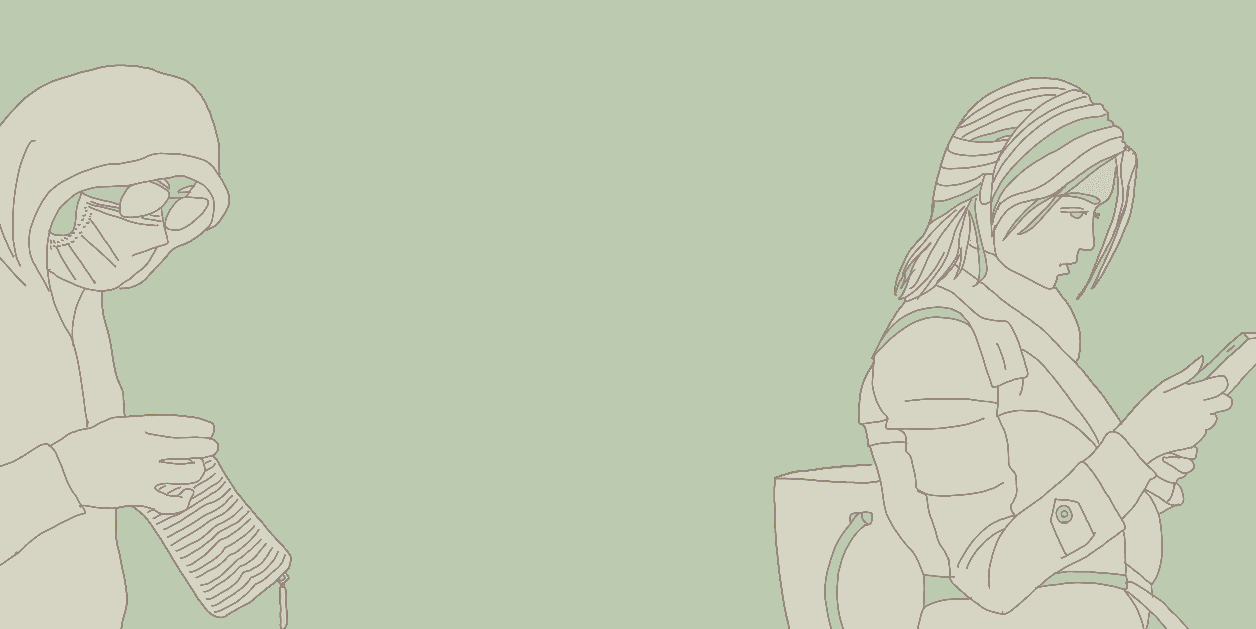
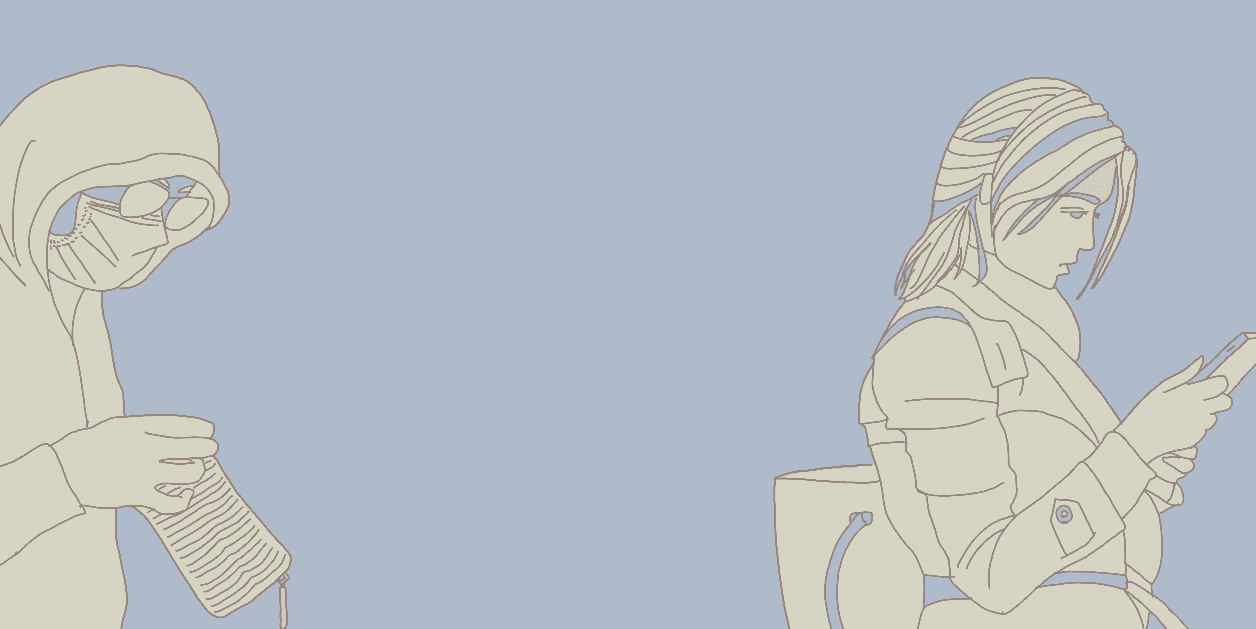
commit

diff --git a/src/pages/{mdx.slug}.js b/src/pages/{mdx.slug}.js
@@ -1,6 +1,7 @@
 import * as React from "react"
 import { graphql, Link } from "gatsby"
 import { MDXRenderer } from "gatsby-plugin-mdx"
+import { getImage } from "gatsby-plugin-image"
 import { ChakraProvider, Heading, Text, HStack, Box } from "@chakra-ui/react"
 import kebabCase from "lodash/kebabCase"
 
@@ -11,12 +12,15 @@ import articleTheme from "../theme/articleTheme"
 
 const articleTemplate = ({ data }) => {
   const pageTitle = data.mdx.frontmatter.title
+  const description = data.mdx.excerpt
+  const image = getImage(data.mdx.frontmatter.hero_image)
   const date = data.mdx.frontmatter.date
   const tags = data.mdx.frontmatter.tags
+  const localImages = data.mdx.frontmatter.embeddedImagesLocal
   return (
     <ChakraProvider theme={articleTheme}>
       <Layout>
-        <Seo title={pageTitle} />
+        <Seo title={pageTitle} description={description} image={image} />
         <Text
           align="right"
           fontSize={{ base: "xs", sm: "sm" }}
@@ -37,7 +41,7 @@ const articleTemplate = ({ data }) => {
             </HStack>
           ))}
         </Box>
-        <MDXRenderer>{data.mdx.body}</MDXRenderer>
+        <MDXRenderer localImages={localImages}>{data.mdx.body}</MDXRenderer>
       </Layout>
     </ChakraProvider>
   )
@@ -51,7 +55,18 @@ export const query = graphql`
         title
         date(formatString: "YYYY - MM - DD")
         tags
+        hero_image {
+          childImageSharp {
+            gatsbyImageData
+          }
+        }
+        embeddedImagesLocal {
+          childImageSharp {
+            gatsbyImageData
+          }
+        }
       }
+      excerpt
     }
     site {
       siteMetadata {

diff --git a/src/components/articleItems.js b/src/components/articleItems.js
@@ -1,23 +1,34 @@
 import * as React from "react"
 import { Link } from "gatsby"
 import { Box, Heading, Flex, GridItem } from "@chakra-ui/react"
-import { GatsbyImage, getImage } from "gatsby-plugin-image"
+import { GatsbyImage, getImage, StaticImage } from "gatsby-plugin-image"
 
 const ArticleItems = ({ node }) => {
+  const title = node.frontmatter.title
+  const image = node.frontmatter.hero_image
+  const alt = node.frontmatter.hero_image_alt
   return (
     <GridItem colSpan={{ base: 6, sm: 3, lg: 2 }} mb="6">
       <Link to={`/${node.slug}`}>
         <Flex>
           <Box>
             <Box>
-              <GatsbyImage
-                image={getImage(node.frontmatter.hero_image)}
-                alt={node.frontmatter.hero_image_alt}
-                imgStyle={{ borderRadius: "5px" }}
-              />
+              {image ? (
+                <GatsbyImage
+                  image={getImage(image)}
+                  alt={alt}
+                  imgStyle={{ borderRadius: "5px" }}
+                />
+              ) : (
+                <StaticImage
+                  imgStyle={{ borderRadius: "5px" }}
+                  src="../images/icon.png"
+                  alt="サイトロゴ"
+                />
+              )}
             </Box>
             <Heading as="h2" fontSize="lg" p="2">
-              {node.frontmatter.title}
+              {title}
             </Heading>
           </Box>
         </Flex>

diff --git a/src/components/seo.js b/src/components/seo.js
@@ -10,8 +10,8 @@ import PropTypes from "prop-types"
 import { Helmet } from "react-helmet"
 import { useStaticQuery, graphql } from "gatsby"
 
-function Seo({ description, lang, meta, title }) {
-  const { site } = useStaticQuery(
+function Seo({ description, lang, meta, title, image }) {
+  const { site, file } = useStaticQuery(
     graphql`
       query {
         site {
@@ -19,8 +19,16 @@ function Seo({ description, lang, meta, title }) {
             title
             description
             author
+            siteUrl
             social {
               twitter
+            }
+          }
+        }
+        file(relativePath: { eq: "icon.png" }) {
+          childImageSharp {
+            fixed {
+              src
             }
           }
         }
@@ -30,6 +38,9 @@ function Seo({ description, lang, meta, title }) {
 
   const metaDescription = description || site.siteMetadata.description
   const defaultTitle = site.siteMetadata?.title
+  const ogpImage = image
+    ? `${site.siteMetadata.siteUrl}${image.images.fallback.src}`
+    : `${site.siteMetadata.siteUrl}${file.childImageSharp.fixed.src}`
 
   return (
     <Helmet
@@ -54,6 +65,10 @@ function Seo({ description, lang, meta, title }) {
         {
           property: `og:type`,
           content: `website`,
+        },
+        {
+          property: `og:image`,
+          content: ogpImage,
         },
         {
           name: `twitter:card`,

diff --git a/src/pages/index.js b/src/pages/index.js
@@ -1,10 +1,13 @@
 import React from "react"
 import { graphql } from "gatsby"
-import { Grid } from "@chakra-ui/react"
+import { ChakraProvider, Grid } from "@chakra-ui/react"
+import "@fontsource/noto-sans-jp/700.css"
+import "@fontsource/chelsea-market"
 
 import Seo from "../components/seo"
 import ArticleItems from "../components/articleItems"
 import Layout from "../components/layout"
+import indexTheme from "../theme/indexTheme"
 
 export const pageQuery = graphql`
   query {
@@ -28,14 +31,16 @@ export const pageQuery = graphql`
 
 const IndexPage = ({ data }) => {
   return (
-    <Layout>
-      <Seo title="トップページ" />
-      <Grid templateColumns="repeat(6, 1fr)" gap="6">
-        {data.allMdx.nodes.map(node => (
-          <ArticleItems node={node} key={node.id} />
-        ))}
-      </Grid>
-    </Layout>
+    <ChakraProvider theme={indexTheme}>
+      <Layout>
+        <Seo title="トップページ" />
+        <Grid templateColumns="repeat(6, 1fr)" gap="6">
+          {data.allMdx.nodes.map(node => (
+            <ArticleItems node={node} key={node.id} />
+          ))}
+        </Grid>
+      </Layout>
+    </ChakraProvider>
   )
 }
 

diff --git a/src/theme/indexTheme.js b/src/theme/indexTheme.js
@@ -1,0 +1,22 @@
+import { extendTheme } from "@chakra-ui/react"
+import theme from "./theme"
+
+const indexTheme = extendTheme({
+  ...theme,
+  fonts: {
+    heading: "Chelsea Market, Noto Sans JP, sans-serif",
+    body: "Chelsea Market, Noto Sans JP, sans-serif",
+  },
+  styles: {
+    global: {
+      body: {
+        lineHeight: "taller",
+        letterSpacing: "wide",
+        backgroundColor: "cBlue2",
+        color: "cBeige",
+      },
+    },
+  },
+})
+
+export default indexTheme

diff --git a/src/components/tagMenu.js b/src/components/tagMenu.js
@@ -17,7 +17,9 @@ const TagMenu = ({ onClose }) => {
   return (
     <UnorderedList>
       <ListItem as="li" mt="2" onClick={onClose}>
-        <Link to="/">トップページへ</Link>
+        <Link to="/" _focus={{ outline: "none" }}>
+          トップページへ
+        </Link>
       </ListItem>
       {group.map(({ fieldValue }) => (
         <ListItem as="li" mt="2" key={fieldValue} onClick={onClose}>

diff --git a/src/theme/theme.js b/src/theme/theme.js
@@ -32,6 +32,9 @@ const theme = extendTheme({
         color: "cBeige",
         a: {
           transition: "0.3s",
+          _focus: {
+            outline: "none",
+          },
           _hover: {
             color: "cBlack",
             rect: {

diff --git a/gatsby-config.js b/gatsby-config.js
@@ -54,7 +54,7 @@ module.exports = {
         isUsingColorMode: true,
       },
     },
-    "gatsby-plugin-mdx",
+    `gatsby-plugin-mdx`,
     {
       resolve: `gatsby-plugin-google-gtag`,
       options: {
